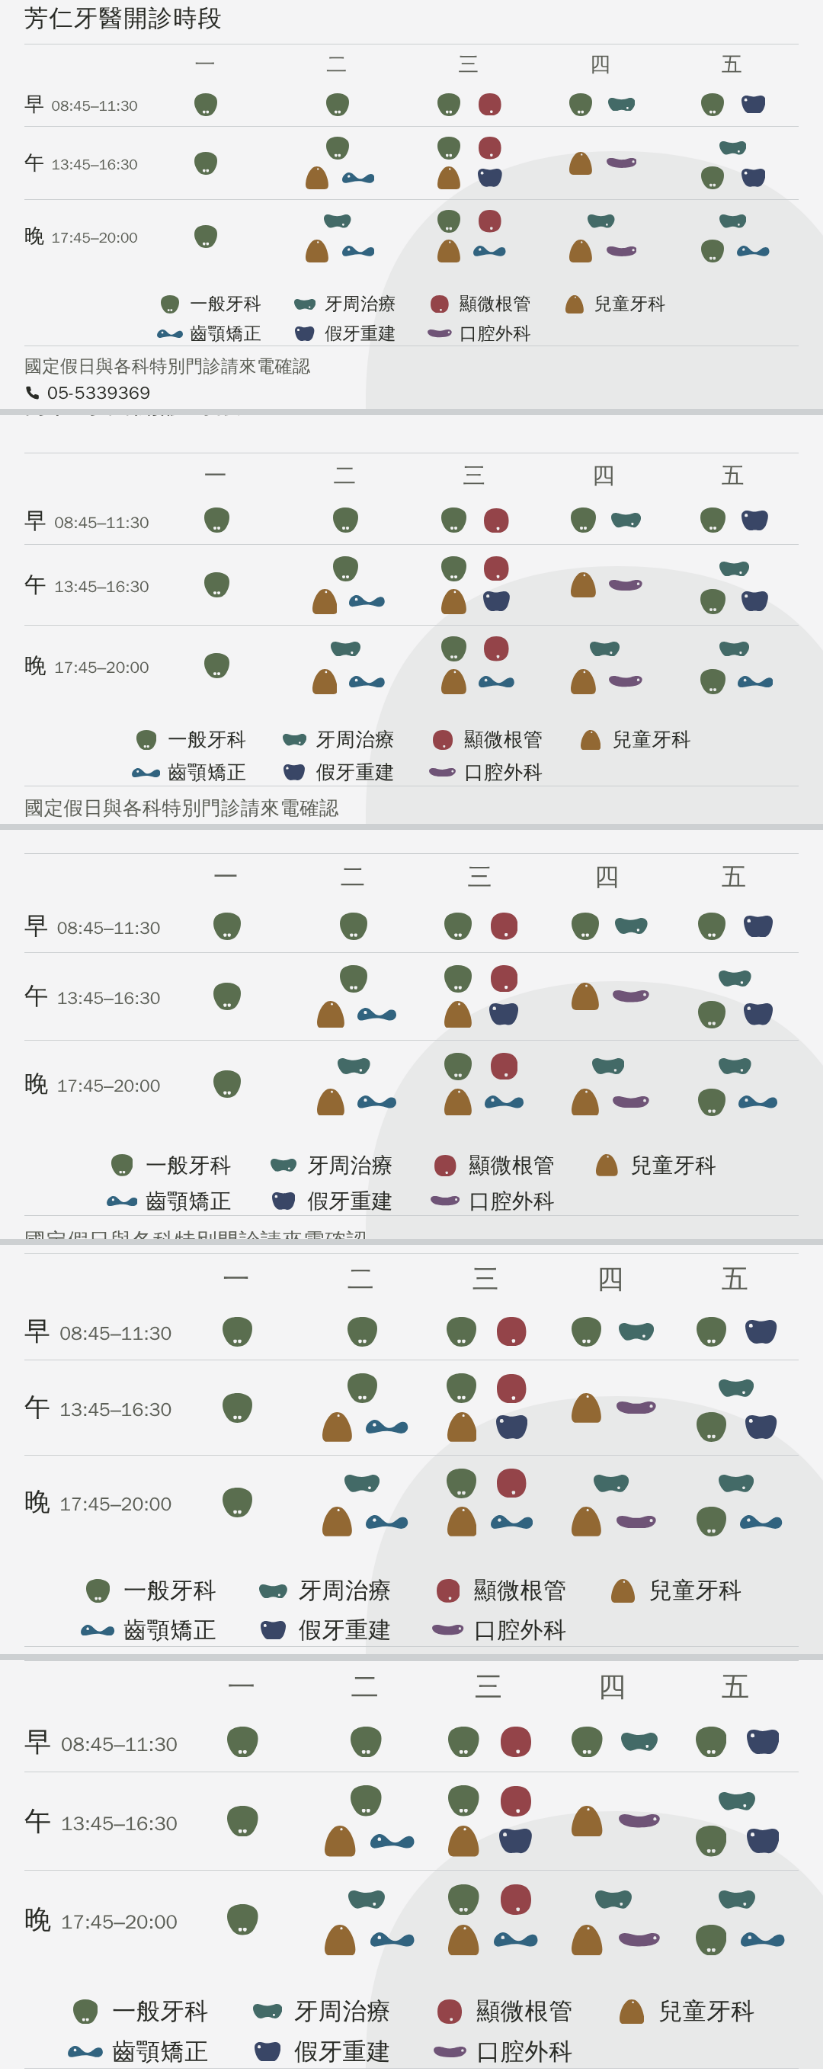
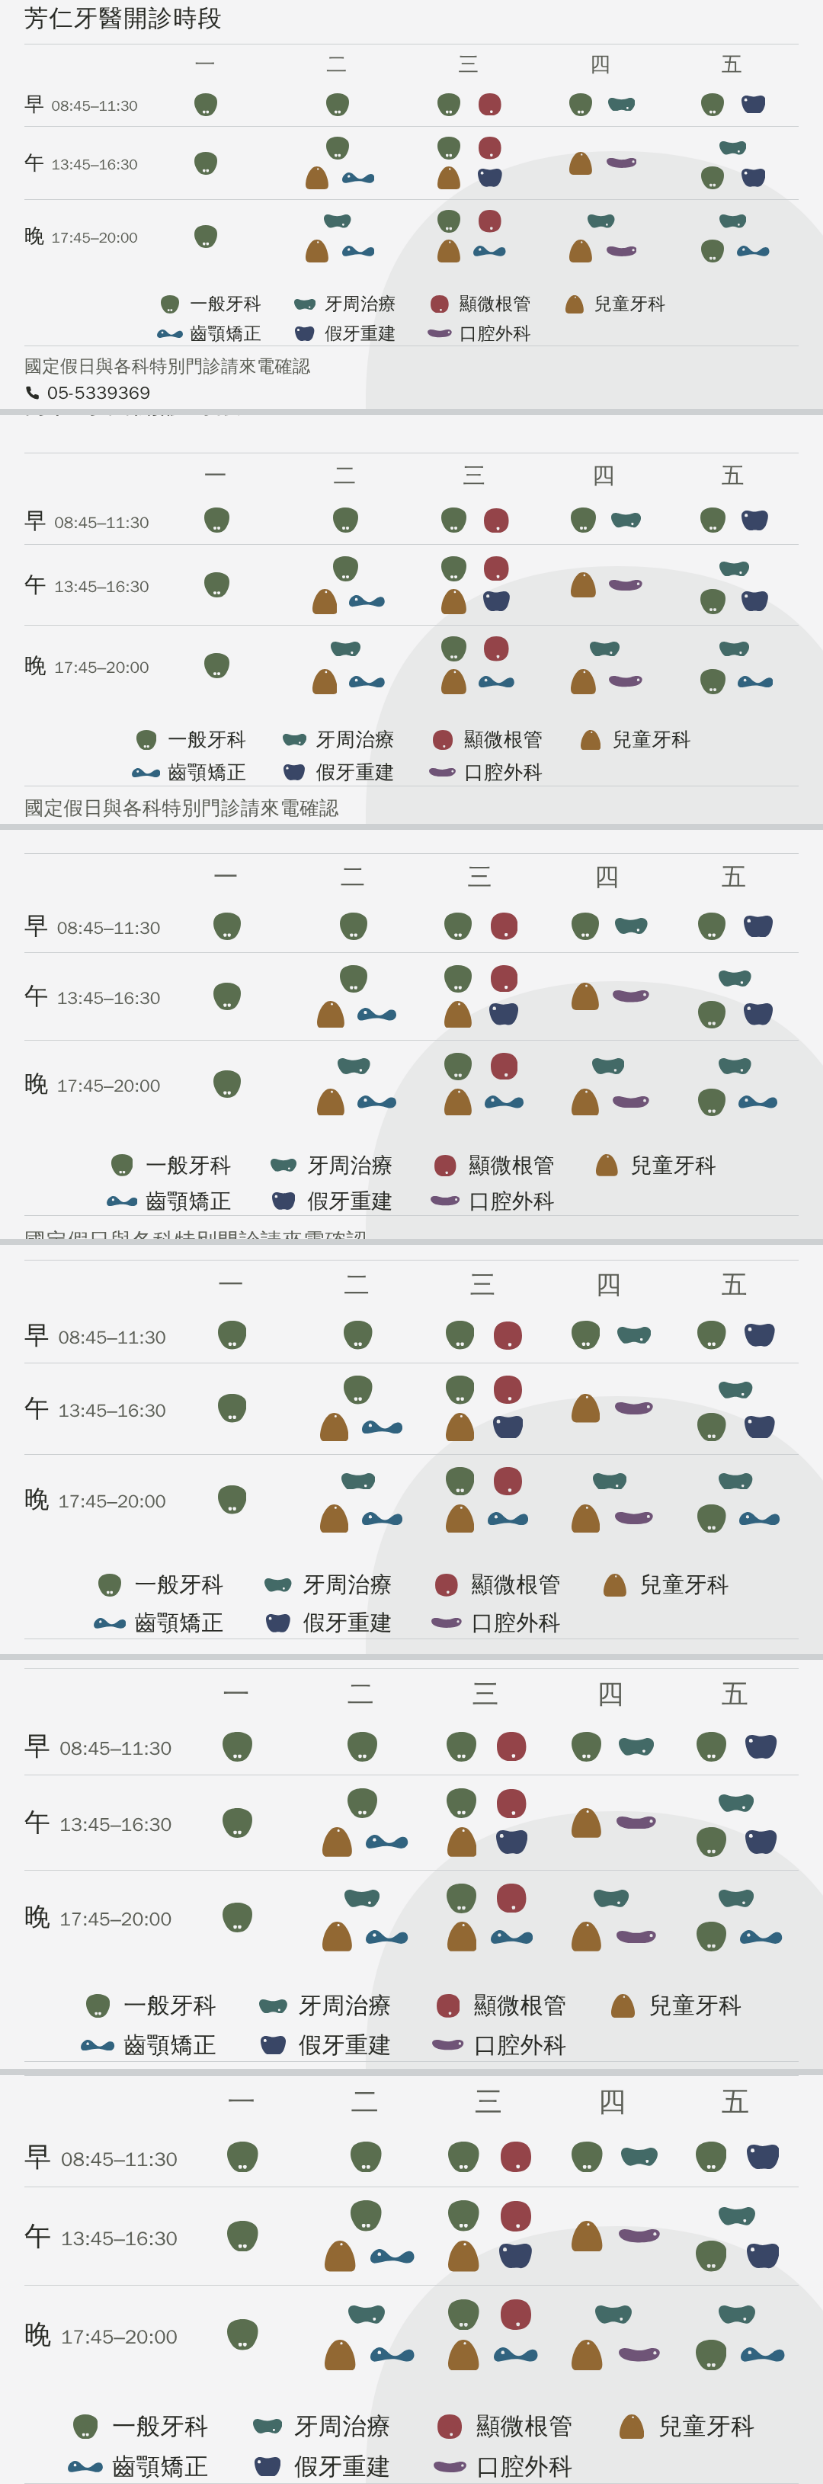
貼文的看診時間圖：補一版放大 1.25×
內容 696px，主頁大格上下各切掉 79px，擺在 1.30 和 1.20 中間。
規格頁上叫 Ⓕ ——⚠ 刻意不重新編字母：上一輪已經用 Ⓒ Ⓓ Ⓔ 講過話，
重編會讓那些話指到別張圖上。裁切對照圖跟著變成六格。

Claude-Session: https://claude.ai/code/session_01MZajVWsXZEKKyaPnDuqBAm

diff --git a/preview/line-post-hours/index.html b/preview/line-post-hours/index.html
@@ -68,8 +68,10 @@ code{font-size:.94em;background:var(--card);border-radius:4px;padding:0 4px;
     <span>放大的四個版本　2026-09-07</span></h1>
   <p class="pv-lead">科別說明和門診表<b>拉開了</b>（16 → 26px），
     放大做成<b>四個版本</b>讓你挑：<b>Ⓑ 1.352</b>（上限，大格正好看到完整的表）、
-    Ⓒ 1.30、Ⓓ 1.20、Ⓔ 1.10，最後面留著 <b>Ⓐ 1×</b> 當對照。
-    四張只差倍率，其他每一項都一樣。</p>
+    Ⓒ 1.30、<b>Ⓕ 1.25</b>、Ⓓ 1.20、Ⓔ 1.10，最後面留著 <b>Ⓐ 1×</b> 當對照。
+    每一張只差倍率，其他每一項都一樣。<br>
+    ⚠ 字母只是名字、不是順序——<b>Ⓕ 是後來補的那一版</b>，
+    擺在 Ⓒ 和 Ⓓ 中間（前面幾個字母沒有動，你之前講的 Ⓒ Ⓓ Ⓔ 仍然是同一張）。</p>
 
   <h2 class="pv-h2">Ⓑ 放大 1.352×<em>上限</em>
     <span class="t">大格正好看到一整塊完整的表</span></h2>
@@ -87,6 +89,13 @@ code{font-size:.94em;background:var(--card);border-radius:4px;padding:0 4px;
       alt="看診時間圖：放大 1.30 倍">
   </div>
   <p class="pv-cap">內容 723px，主頁大格上下各切掉 <b>93px</b>。</p>
+
+  <h2 class="pv-h2">Ⓕ 放大 1.25×<span class="t">2026-09-07 補的</span></h2>
+  <div class="pv-shot">
+    <img src="post-hours-s125.png" width="1080" height="1080" loading="lazy"
+      alt="看診時間圖：放大 1.25 倍">
+  </div>
+  <p class="pv-cap">內容 696px，主頁大格上下各切掉 <b>79px</b>。</p>
 
   <h2 class="pv-h2">Ⓓ 放大 1.20×</h2>
   <div class="pv-shot">
@@ -118,21 +127,21 @@ code{font-size:.94em;background:var(--card);border-radius:4px;padding:0 4px;
     ・再讓<b>上面那一塊（標題）和下面那一塊（電話）一樣高</b>
     （標題底下多墊 <span class="n">25px</span> ＝ 79 − 54），
     兩邊的切口就<b>正好落在那兩條分隔線上</b>。<br>
-    <b>Ⓒ Ⓓ Ⓔ 沒有這個性質</b>——它們的切口會落在字的中間（下面那張圖看得到）。
-    四張的<b>其他每一項都一樣</b>（一樣的內距、一樣的墊高），差別只有倍率。<br>
+    <b>Ⓒ Ⓕ Ⓓ Ⓔ 沒有這個性質</b>——它們的切口會落在字的中間（下面那張圖看得到）。
+    每一張的<b>其他每一項都一樣</b>（一樣的內距、一樣的墊高），差別只有倍率。<br>
     ⚠ <b>天花板不是安全帶，是格子的牆</b>：一格最多放兩顆等寬格，
     算出 <span class="n">S ≤ 1.513</span>——1.352 是被安全帶擋住的，不是被牆。
     ⚠ 這兩個數字都是<b>每次出圖現量現算</b>的。</p>
 
   <h2 class="pv-h2">大格看得到什麼
-    <span class="t">由上到下：原本／1.10／1.20／1.30／Ⓑ 1.352</span></h2>
+    <span class="t">由上到下：原本／1.10／1.20／1.25／1.30／Ⓑ 1.352</span></h2>
   <div class="pv-shot">
-    <img src="bigslot-scales.png" width="823" height="2069" loading="lazy"
-      alt="五張大格的裁切模擬，由上到下是原本與四種放大">
+    <img src="bigslot-scales.png" width="823" height="2484" loading="lazy"
+      alt="六張大格的裁切模擬，由上到下是原本與五種放大">
   </div>
   <p class="pv-cap">最上面那格是原本的（1×，標題與電話都在，但字最小）；
     <b>最下面那格（Ⓑ）的切口落在兩條分隔線上</b>，看到的是日子的表頭、
-    三列門診與整排圖例；中間那三格都會切在字的中間。</p>
+    三列門診與整排圖例；中間那四格都會切在字的中間。</p>
 
   <h2 class="pv-h2">Ⓐ 原本那一張<span class="t">1×，全部收在大格裡</span></h2>
   <div class="pv-shot">

diff --git a/drafts/channels/README.md b/drafts/channels/README.md
@@ -7335,6 +7335,12 @@ node drafts/channels/oa-shots.mjs && node drafts/channels/build-spec.mjs && node
 
 ⚠ 放大之後的分群跟著變好（欄變寬了）：同一格 **19.3px**、跨一天 **44.9px** ＝ **2.33 倍**。
 
+⚠ **2026-09-07 稍晚使用者又要了一版 1.25**（切掉 79px），所以現在是五格：
+1.10／1.20／**1.25**／1.30／1.352。
+規格頁上它叫 **Ⓕ**、擺在 Ⓒ（1.30）和 Ⓓ（1.20）中間 ——
+**刻意不重新編字母**：他上一輪已經用 Ⓒ Ⓓ Ⓔ 講過話，重編會讓那些話指到別張圖上。
+**通則：中途插一個新選項時，寧可讓字母的順序亂掉，也不要動已經被引用過的名字。**
+
 ### 33-6　⚠ 一格裡有三顆時的分行，以及「順序」住在哪裡
 
 分行規則（`lines()`）：1→[1]　2→[2]　**3→[1,2]**　4→[2,2] ——
